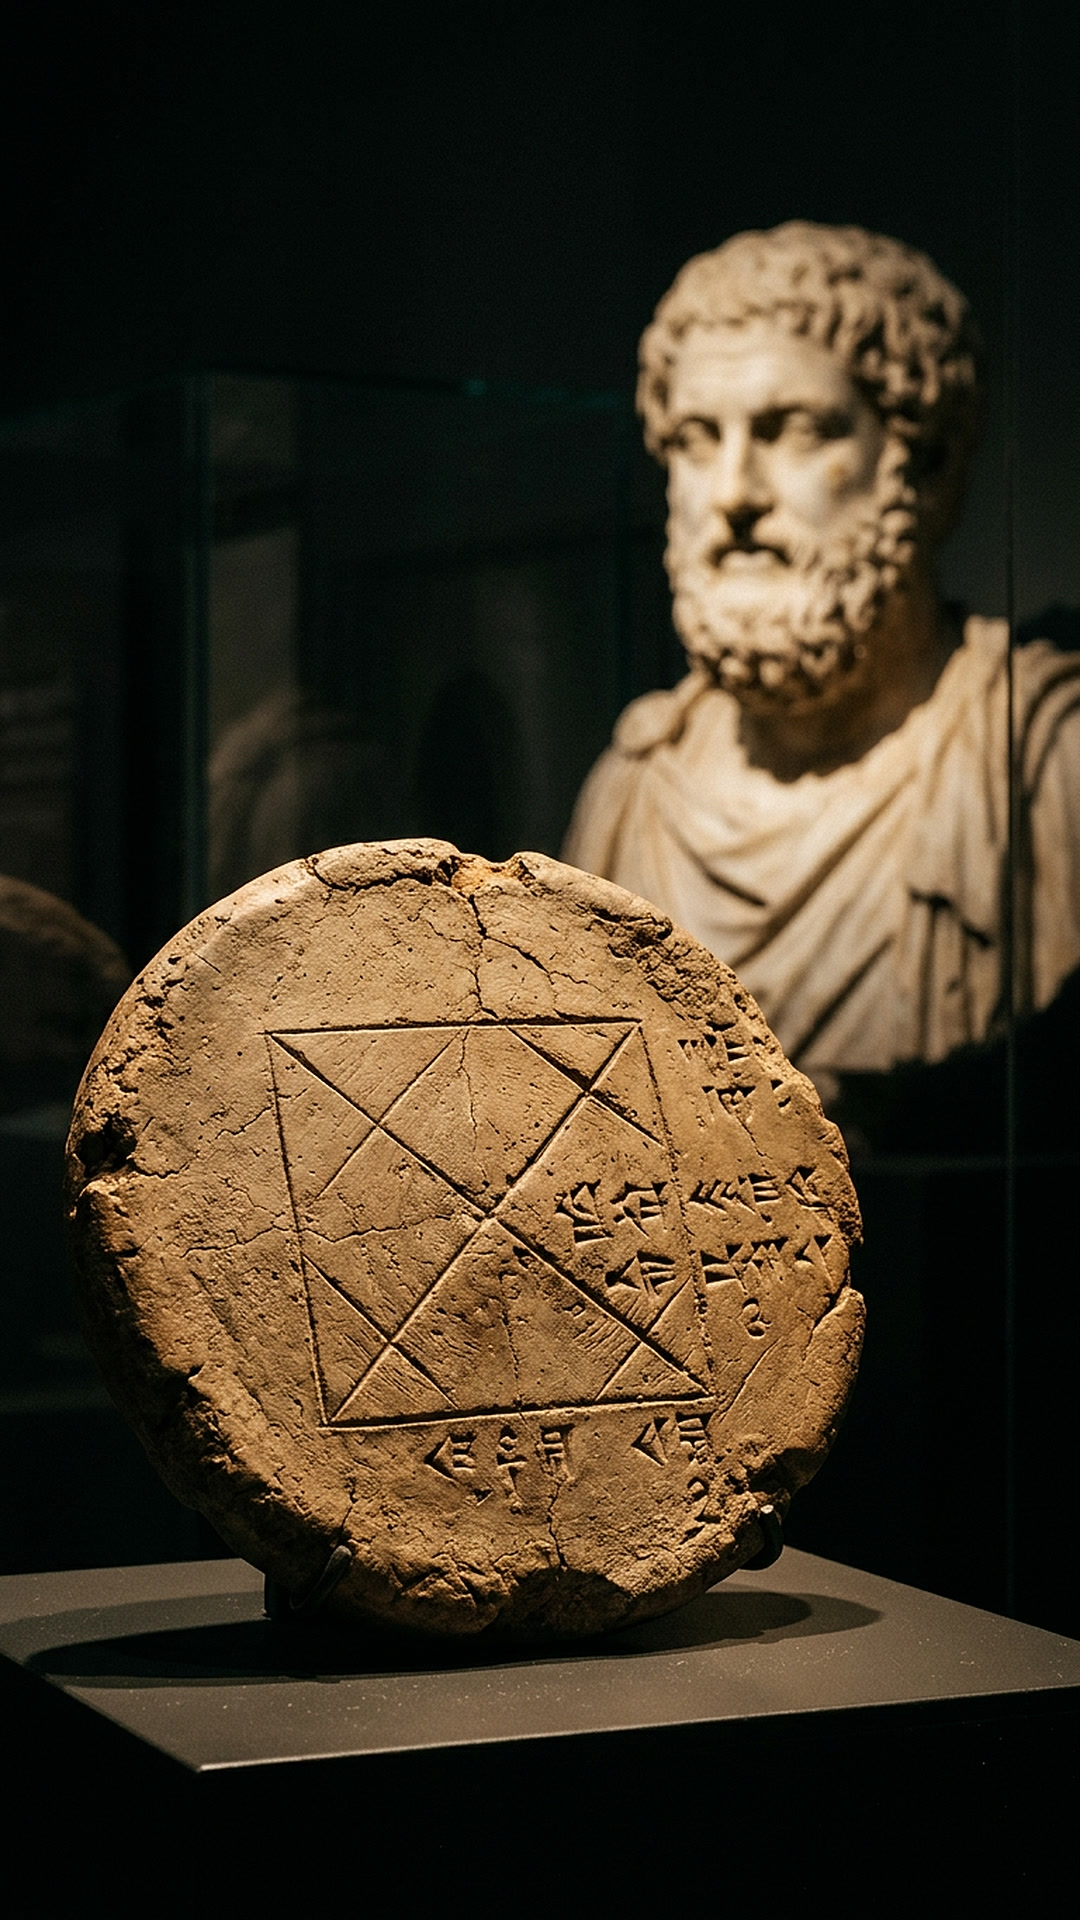
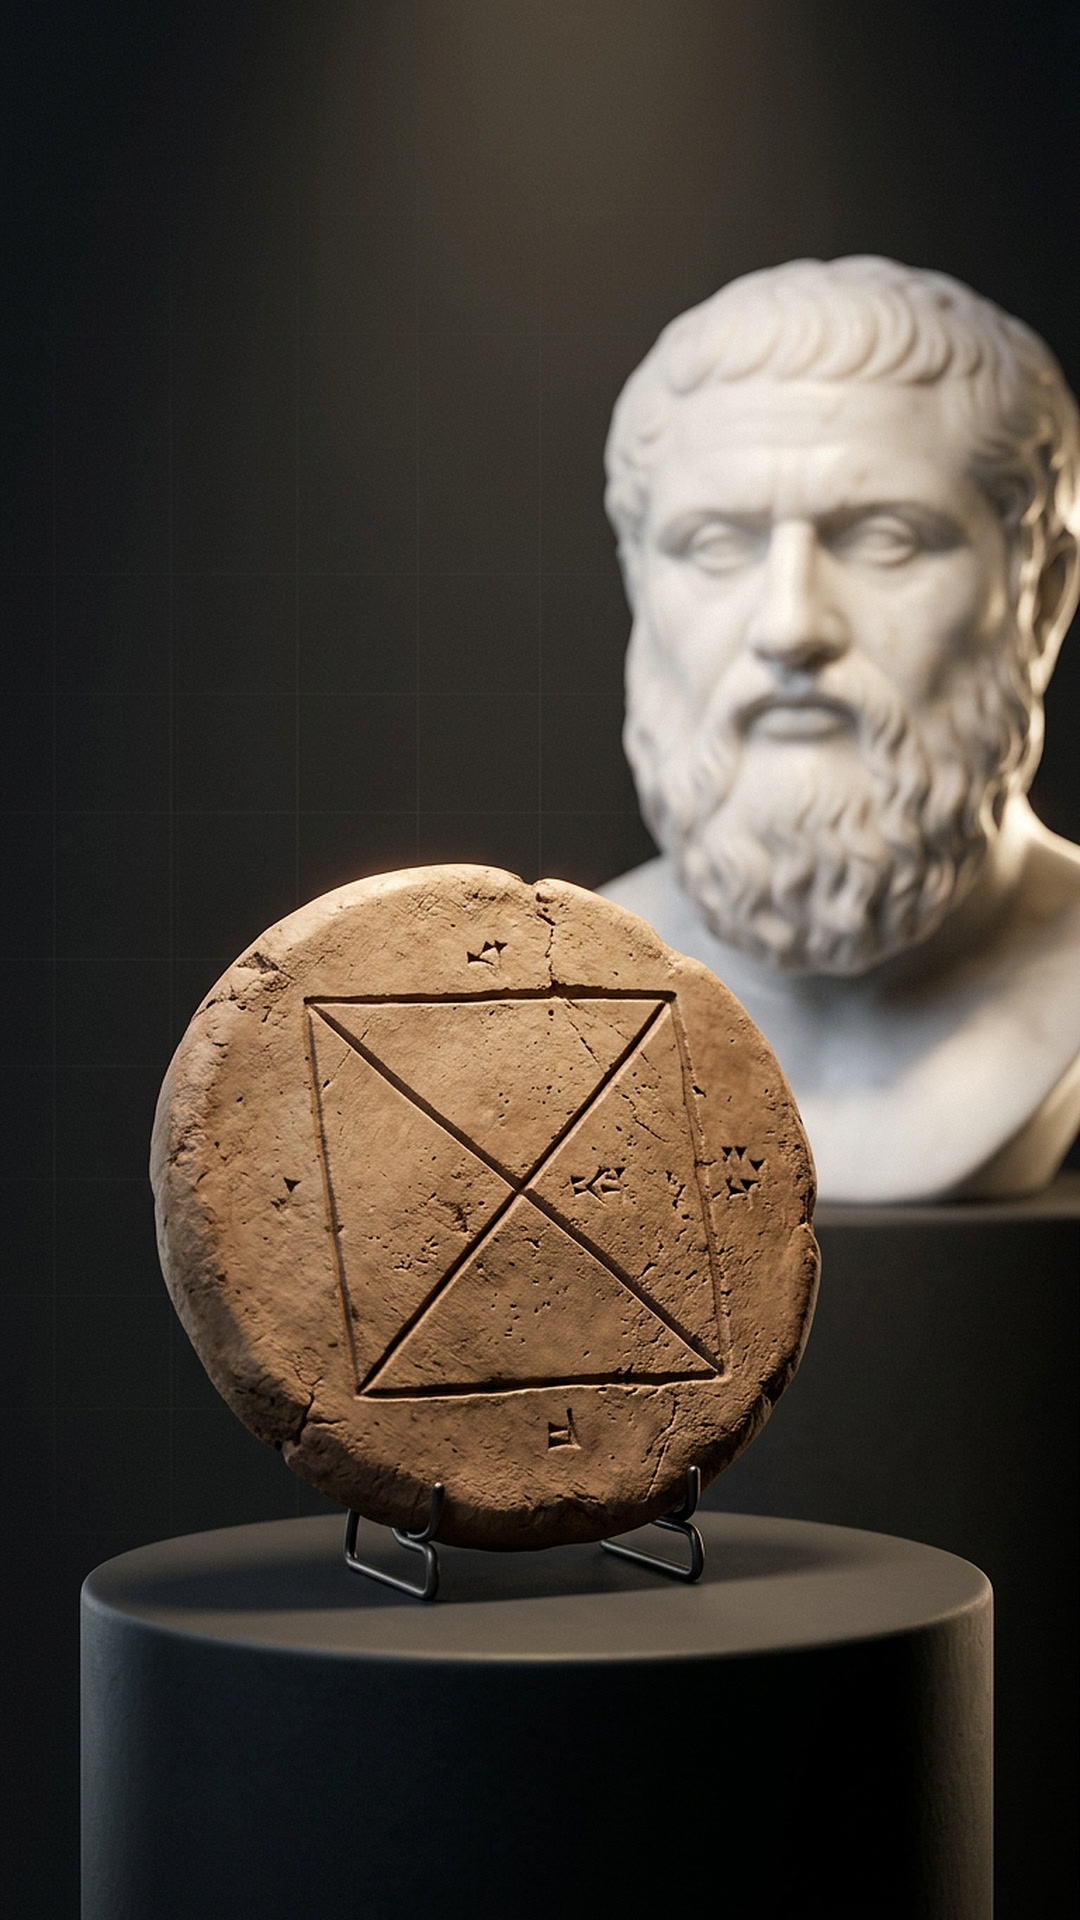
Couvertures en rendu 3D studio (5 vidéos)
Le client trouvait les photo-illustrations trop réelles : nouveaux
fonds en rendu 3D studio (fond sombre à grille, figurines en pâte),
mêmes titres et annotations. Règle mise à jour.

Claude-Session: https://claude.ai/code/session_01KZV2BWLCWnSE6qKatNZcwZ

diff --git a/videos/eolienne/cover/cover.html b/videos/eolienne/cover/cover.html
@@ -1,41 +1,17 @@
 <!doctype html>
-<!-- Couverture TikTok créée à part (1080×1920) : photo-illustration générée (Magnific) + titre-choc.
-     Rendu : node render-cover.mjs → ../cover.png et ../cover-grille.png (recadrage 3:4 de la grille du profil). -->
-<html lang="fr">
-<meta charset="utf-8" />
-<style>
-  @font-face { font-family: Anton; src: url(anton.woff2); }
-  @font-face { font-family: Mono; font-weight: 700; src: url(jetbrains-mono-700.woff2); }
-  @font-face { font-family: Inter; font-weight: 800; src: url(inter-800.woff2); }
-  * { margin: 0; box-sizing: border-box; }
-  body { width: 1080px; height: 1920px; overflow: hidden; background: #000 url(fond.jpg) center / cover; position: relative; font-family: Anton, sans-serif; }
-  .shade { position: absolute; inset: 0; background: linear-gradient(180deg, rgba(0, 0, 0, 0.75) 0%, rgba(0, 0, 0, 0.55) 26%, rgba(0, 0, 0, 0) 40%, rgba(0, 0, 0, 0) 72%, rgba(0, 0, 0, 0.55) 100%); }
-  .kick { position: absolute; left: 0; right: 0; top: 250px; text-align: center; }
-  .kick span { display: inline-block; font: 700 38px/1 Mono, monospace; letter-spacing: 0.14em; color: #0f1011; background: #ffd23f; padding: 14px 26px; border-radius: 999px; transform: rotate(-2deg); box-shadow: 0 8px 24px rgba(0, 0, 0, 0.35); }
-  h1 { position: absolute; left: 0; right: 0; top: 318px; text-align: center; color: #fff; text-transform: uppercase; line-height: 0.95; text-shadow: 0 8px 0 rgba(0, 0, 0, 0.45), 0 0 40px rgba(0, 0, 0, 0.5); }
-  h1 .a { display: block; font-size: 200px; letter-spacing: 0.01em; }
-  h1 .a em { font-style: normal; color: #ffd23f; }
-  h1 .b { display: block; font-size: 86px; letter-spacing: 0.01em; }
-  /* annotations on the photo */
-  .tag { position: absolute; font: 700 34px/1 Mono, monospace; letter-spacing: 0.1em; color: #fff; background: #e5483a; padding: 12px 18px; border-radius: 10px; box-shadow: 0 8px 24px rgba(0, 0, 0, 0.4); white-space: nowrap; }
-  .tag.blue { background: #3d7bff; }
-  svg { position: absolute; inset: 0; }
-</style>
-<div class="shade"></div>
+<html lang="fr"><meta charset="utf-8" /><link rel="stylesheet" href="../../_engine/covers/kit/cover.css" /><style>body { background-image: url(fond.jpg); }</style>
+<!-- Couverture créée à part, style 3D studio (image générée avec Magnific) : une pale à côté d'un terrain de basket. -->
+<div class="shade" style="background: linear-gradient(180deg, rgba(0,0,0,0.35) 0%, rgba(0,0,0,0) 25%, rgba(0,0,0,0) 60%, rgba(0,0,0,0.35) 100%)"></div>
 <svg width="1080" height="1920" viewBox="0 0 1080 1920">
-  <!-- the two tiny people -->
-  <circle cx="632" cy="922" r="46" fill="none" stroke="#ffd23f" stroke-width="7" />
-  <path d="M 700 880 Q 770 820 812 760" fill="none" stroke="#ffd23f" stroke-width="7" stroke-linecap="round" />
-  <!-- blade length bracket -->
-  <path d="M 318 738 L 960 1330" fill="none" stroke="#e5483a" stroke-width="8" stroke-dasharray="22 14" stroke-linecap="round" />
-  <circle cx="318" cy="738" r="11" fill="#e5483a" />
-  <circle cx="960" cy="1330" r="11" fill="#e5483a" />
-  <!-- court outline -->
-  <path d="M 70 1100 L 418 1056 L 618 1440 L 204 1512 Z" fill="none" stroke="#3d7bff" stroke-width="8" stroke-linejoin="round" />
+  <path d="M 999 392 L 257 1553" fill="none" stroke="#e5483a" stroke-width="8" stroke-dasharray="22 14" stroke-linecap="round" />
+  <circle cx="999" cy="392" r="12" fill="#e5483a" /><circle cx="257" cy="1553" r="12" fill="#e5483a" />
+  <path d="M 49 905 L 378 540 L 716 635 L 392 1053 Z" fill="none" stroke="#3d7bff" stroke-width="8" stroke-linejoin="round" />
+  <circle cx="783" cy="958" r="48" fill="none" stroke="#ffd23f" stroke-width="7" />
+  <path d="M 815 920 L 860 860" stroke="#ffd23f" stroke-width="7" stroke-linecap="round" />
 </svg>
-<div class="tag" style="left: 790px; top: 700px; background: #ffd23f; color: #0f1011">TOI</div>
-<div class="tag" style="left: 640px; top: 1130px">UNE PALE</div>
-<div class="tag blue" style="left: 230px; top: 1540px">28 M</div>
-<div class="kick"><span>COMMENT ÇA MARCHE ?</span></div>
-<h1><span class="a">1 <em>PALE</em></span><span class="b">PLUS LONGUE QU'UN</span><span class="b">TERRAIN DE BASKET</span></h1>
+<div class="kick" style="left: 290px; top: 250px">COMMENT ÇA MARCHE ?</div>
+<div class="tag blue" style="left: 60px; top: 560px">28 M</div>
+<div class="tag yel" style="left: 830px; top: 800px">TOI</div>
+<div class="tag" style="left: 80px; top: 1200px">UNE PALE<small>50 À 80 M</small></div>
+<h1 style="right: 50px; top: 1150px; text-align: right"><span style="font-size: 200px">1 <em>PALE</em></span><span style="font-size: 92px">PLUS LONGUE</span><span style="font-size: 92px">QU'UN TERRAIN</span><span style="font-size: 92px">DE BASKET</span></h1>
 </html>

diff --git a/videos/telephone/cover/cover.html b/videos/telephone/cover/cover.html
@@ -1,14 +1,15 @@
 <!doctype html>
 <html lang="fr"><meta charset="utf-8" /><link rel="stylesheet" href="../../_engine/covers/kit/cover.css" /><style>body { background-image: url(fond.jpg); }</style>
-<!-- Couverture créée à part : photo-illustration Magnific (pot de yaourt, fil tendu vers une antenne au loin). -->
-<div class="shade" style="background: linear-gradient(180deg, rgba(0,0,0,0.35) 0%, rgba(0,0,0,0) 22%, rgba(0,0,0,0) 48%, rgba(0,0,0,0.75) 64%, rgba(0,0,0,0.85) 100%)"></div>
+<!-- Couverture créée à part, style 3D studio (image générée avec Magnific) : un pot de yaourt, le fil jusqu'à l'antenne. -->
+<div class="shade" style="background: linear-gradient(90deg, rgba(0,0,0,0.4) 0%, rgba(0,0,0,0) 55%)"></div>
 <svg width="1080" height="1920" viewBox="0 0 1080 1920">
-  <path d="M 590 948 L 945 318" fill="none" stroke="#ffd23f" stroke-width="9" stroke-dasharray="24 14" stroke-linecap="round" />
-  <circle cx="948" cy="250" r="70" fill="none" stroke="#e5483a" stroke-width="8" />
-  <circle cx="345" cy="885" r="200" fill="none" stroke="#ffd23f" stroke-width="8" />
+  <path d="M 552 1000 L 783 640" fill="none" stroke="#ffd23f" stroke-width="9" stroke-dasharray="24 14" stroke-linecap="round" />
+  <circle cx="390" cy="1150" r="195" fill="none" stroke="#ffd23f" stroke-width="8" />
+  <ellipse cx="845" cy="540" rx="200" ry="170" fill="none" stroke="#e5483a" stroke-width="8" />
 </svg>
-<div class="tag" style="left: 560px; top: 360px">TON AMI<small>CAP-HAÏTIEN · 100 KM</small></div>
-<div class="tag yel" style="left: 470px; top: 640px">TOI</div>
-<div class="kick" style="left: 290px; top: 1110px">COMMENT ÇA MARCHE ?</div>
-<h1 style="left: 0; right: 0; top: 1190px; text-align: center"><span style="font-size: 132px"><em>2 POTS DE YAOURT</em></span><span style="font-size: 168px">= 1 TÉLÉPHONE ?</span></h1>
+<h1 style="left: 60px; top: 280px; font-size: 150px"><span><em>2 POTS</em></span><span><em>DE YAOURT</em></span></h1>
+<div class="tag" style="left: 620px; top: 730px">TON AMI<small>CAP-HAÏTIEN · 100 KM</small></div>
+<div class="tag yel" style="left: 600px; top: 1040px">TOI</div>
+<div class="kick" style="right: 50px; top: 1450px">COMMENT ÇA MARCHE ?</div>
+<h1 style="right: 50px; top: 1525px; text-align: right; font-size: 124px"><span>= 1 TÉLÉPHONE ?</span></h1>
 </html>

diff --git a/videos/inventeurs/cover/cover.html b/videos/inventeurs/cover/cover.html
@@ -1,18 +1,17 @@
 <!doctype html>
 <html lang="fr"><meta charset="utf-8" /><link rel="stylesheet" href="../../_engine/covers/kit/cover.css" /><style>body { background-image: url(fond.jpg); }</style>
-<!-- Couverture créée à part : nature morte générée (Magnific) : ampoule, feu tricolore, cartouche, pistolet à eau. -->
-<div class="shade" style="background: linear-gradient(180deg, rgba(0,0,0,0.55) 0%, rgba(0,0,0,0) 36%)"></div>
+<!-- Couverture créée à part, style 3D studio (image générée avec Magnific) : ampoule, feu tricolore, cartouche, pistolet à eau. -->
 <svg width="1080" height="1920" viewBox="0 0 1080 1920" fill="none" stroke-width="5" stroke-linecap="round">
-  <path d="M 150 1250 L 150 1135" stroke="#e5483a" />
-  <path d="M 380 1420 L 400 1145" stroke="#3d7bff" />
-  <path d="M 640 1250 L 636 1110" stroke="#ffd23f" />
-  <path d="M 860 1420 L 930 1205" stroke="#e5483a" />
+  <path d="M 169 1400 L 169 1300" stroke="#e5483a" />
+  <path d="M 380 1560 L 398 1310" stroke="#3d7bff" />
+  <path d="M 640 1400 L 640 1300" stroke="#ffd23f" />
+  <path d="M 860 1560 L 910 1300" stroke="#e5483a" />
 </svg>
 <div class="kick" style="left: 340px; top: 250px">ON T'A MENTI</div>
 <h1 style="left: 0; right: 0; top: 318px; text-align: center; font-size: 140px"><span>LES NOIRS</span><span>N'ONT RIEN</span><span><em>INVENTÉ ?</em></span></h1>
 <div class="stamp" style="left: 610px; top: 722px; font-size: 118px">FAUX</div>
-<div class="tag" style="left: 30px; top: 1250px">LEWIS LATIMER<small>AMPOULE · 1882</small></div>
-<div class="tag blue" style="left: 200px; top: 1420px">GARRETT MORGAN<small>FEU · 1923</small></div>
-<div class="tag yel" style="left: 480px; top: 1250px">JERRY LAWSON<small>CARTOUCHES DE JEU</small></div>
-<div class="tag" style="left: 660px; top: 1420px">LONNIE JOHNSON<small>SUPER SOAKER</small></div>
+<div class="tag" style="left: 30px; top: 1400px">LEWIS LATIMER<small>AMPOULE · 1882</small></div>
+<div class="tag blue" style="left: 200px; top: 1560px">GARRETT MORGAN<small>FEU · 1923</small></div>
+<div class="tag yel" style="left: 480px; top: 1400px">JERRY LAWSON<small>CARTOUCHES DE JEU</small></div>
+<div class="tag" style="left: 660px; top: 1560px">LONNIE JOHNSON<small>SUPER SOAKER</small></div>
 </html>

diff --git a/videos/maths-grecs/cover/cover.html b/videos/maths-grecs/cover/cover.html
@@ -1,14 +1,14 @@
 <!doctype html>
 <html lang="fr"><meta charset="utf-8" /><link rel="stylesheet" href="../../_engine/covers/kit/cover.css" /><style>body { background-image: url(fond.jpg); }</style>
-<!-- Couverture créée à part : photo-illustration Magnific (tablette babylonienne, buste grec flou). -->
-<div class="shade" style="background: linear-gradient(90deg, rgba(0,0,0,0.6) 0%, rgba(0,0,0,0) 60%), linear-gradient(180deg, rgba(0,0,0,0) 70%, rgba(0,0,0,0.6) 100%)"></div>
+<!-- Couverture créée à part, style 3D studio (image générée avec Magnific) : tablette de Babylone, buste grec. -->
+<div class="shade" style="background: linear-gradient(90deg, rgba(0,0,0,0.55) 0%, rgba(0,0,0,0) 55%)"></div>
 <svg width="1080" height="1920" viewBox="0 0 1080 1920">
-  <path d="M 450 1050 L 800 1420" fill="none" stroke="#ffd23f" stroke-width="7" stroke-dasharray="20 12" stroke-linecap="round" />
+  <path d="M 300 980 L 690 1430" fill="none" stroke="#ffd23f" stroke-width="7" stroke-dasharray="20 12" stroke-linecap="round" />
 </svg>
-<h1 style="left: 60px; top: 300px; font-size: 128px"><span>LES GRECS</span><span>ONT INVENTÉ</span><span><em>LES MATHS ?</em></span></h1>
-<div class="stamp" style="left: 650px; top: 700px">FAUX</div>
-<div class="tag yel" style="left: 60px; top: 760px">+ DE 1 000 ANS AVANT EUX</div>
-<div class="tag dark" style="left: 640px; top: 1150px">√2 ≈ 1,414213</div>
-<div class="tag" style="left: 60px; top: 1570px">BABYLONE<small>≈ 1800 AV. J.-C.</small></div>
-<div class="tag blue" style="left: 700px; top: 260px">LES GRECS<small>≈ 500 AV. J.-C.</small></div>
+<h1 style="left: 60px; top: 290px; font-size: 112px"><span>LES GRECS</span><span>ONT INVENTÉ</span><span><em>LES MATHS ?</em></span></h1>
+<div class="tag yel" style="left: 60px; top: 650px">+ DE 1 000 ANS AVANT EUX</div>
+<div class="stamp" style="left: 640px; top: 690px">FAUX</div>
+<div class="tag blue" style="left: 720px; top: 250px">LES GRECS<small>≈ 500 AV. J.-C.</small></div>
+<div class="tag dark" style="left: 650px; top: 1300px">√2 ≈ 1,414213</div>
+<div class="tag" style="left: 60px; top: 1590px">BABYLONE<small>≈ 1800 AV. J.-C.</small></div>
 </html>

diff --git a/videos/femmes-guerre/cover/cover.html b/videos/femmes-guerre/cover/cover.html
@@ -1,10 +1,10 @@
 <!doctype html>
 <html lang="fr"><meta charset="utf-8" /><link rel="stylesheet" href="../../_engine/covers/kit/cover.css" /><style>body { background-image: url(fond.jpg); }</style>
-<!-- Couverture créée à part : peinture historique générée (Magnific) des Agojie, soldates du Dahomey. -->
-<div class="shade" style="background: linear-gradient(180deg, rgba(0,0,0,0.82) 0%, rgba(0,0,0,0.7) 30%, rgba(0,0,0,0) 46%, rgba(0,0,0,0) 74%, rgba(0,0,0,0.6) 100%)"></div>
+<!-- Couverture créée à part, style 3D studio (image générée avec Magnific) : figurines des Agojie, soldates du Dahomey. -->
+<div class="shade" style="background: linear-gradient(180deg, rgba(0,0,0,0.85) 0%, rgba(0,0,0,0.75) 32%, rgba(0,0,0,0) 48%)"></div>
 <div class="kick" style="left: 330px; top: 250px">HISTOIRE CACHÉE</div>
 <h1 style="left: 0; right: 0; top: 320px; text-align: center; font-size: 128px"><span>LES FEMMES</span><span>N'ONT JAMAIS</span><span><em>FAIT LA GUERRE ?</em></span></h1>
 <div class="stamp" style="left: 640px; top: 735px">FAUX</div>
-<div class="tag" style="left: 50px; top: 1560px">LES AGOJIE<small>BÉNIN · XIXᵉ SIÈCLE</small></div>
-<div class="tag yel" style="left: 600px; top: 1580px">DES MILLIERS</div>
+<div class="tag" style="left: 60px; top: 1460px">LES AGOJIE<small>BÉNIN · XIXᵉ SIÈCLE</small></div>
+<div class="tag yel" style="left: 620px; top: 1480px">DES MILLIERS</div>
 </html>

diff --git a/CLAUDE.md b/CLAUDE.md
@@ -76,7 +76,7 @@ Les 21 skills publiés de [heygen-com/hyperframes](https://github.com/heygen-com
 - **Noms des styles vidéo (choisis avec le client)** : quand il dit **« style RÉEL »**, c'est le style « histoire express » v3 ci-dessous (photos réelles, détourages, typo karaoké). Quand il dit **« style ANIMÉ »**, c'est le dessin vectoriel animé décrit dans `videos/_engine/style-anime/README.md` (**gabarit de script obligatoire** : **accroche en énigme** depuis `videos/tour-eiffel/` v2, choix du client : un fait choc daté, « Pourquoi… ? », une 2ᵉ question à laquelle la phrase miroir répondra, puis « Remontons en… » ; plus de « c'est faux, je vais te le prouver » sauf demande ; ensuite questions d'ouverture, accusation retournée, preuves en rafale, phrase miroir finale ; modèles `videos/test-cartoon/`, `videos/cowboys/` ; tout en SVG, fonds sombres et rayons dorés, bustes, carte qui s'allume, sous-titres Bebas Neue avec le mot prononcé dans une case rouge, barre de progression dorée ; la règle « images réelles uniquement » ne s'applique pas à ce style ; voix **Gabriel Dubois** (Magnific / ElevenLabs, `voiceId` 480), bruitage sur chaque dessin avec la banque `videos/_engine/style-anime/sfx/`).
 - **« style 3D »** : vraie 3D (Three.js piloté par HyperFrames), un seul plan où la caméra tourne, plonge et ressort, l'objet qui **se construit pièce par pièce** ; récit « tu le construis toi-même » (problème → « Alors… » → « Ça, c'est un… » avec le titre à l'écran, fin en boucle « Regarde-toi : tu viens de construire… ») ; fond bleu pétrole, étiquettes mono, mot-clé des sous-titres en cyan ; voix **Adrien Moreau** (Magnific / ElevenLabs, `voiceId` 230), débit ≈ 210 mots/min ; guide `videos/_engine/style-3d/README.md`.
 - **« style STUDIO »** (choix du client : variante C des références) : rendus 3D « produit » Three.js, **un plan par idée avec coupes franches** (≈ 1 plan / 3-4 s), fond noir `#0f1011` à grille fine, quelques plans studio clairs ; **sous-titres en haut** (≈ 18 %) en Inter : le mot arrive flou puis net, mot en cours gras blanc, mots déjà dits fins et gris, mot-clé dans un **cadre de sélection bleu à deux poignées** ; récit : fait surprenant → « Alors, comment/pourquoi… ? » → « Imagine… » → mécanisme pas à pas → retour à la question → « Abonne-toi et envoie ça à quelqu'un qui… » avec une feuille de partage de téléphone ; voix **Adrien Moreau** (`voiceId` 230, ton de conversation, ≈ 200 mots/min) ; **pas de musique** mais un fond d'ambiance très bas (jamais de silence numérique) et des bruitages discrets ; guide `videos/_engine/style-3d-studio/README.md`, modèle `videos/eolienne/`.
-- **Couverture TikTok avec chaque vidéo** (demande du client) : une image **créée à part** (pas une image de la vidéo), très accrocheuse : photo-illustration ou visuel fort, titre-choc de 3 à 7 mots, annotations (cercles, flèches, étiquettes d'échelle), texte dans le recadrage 3:4 de la grille du profil ; livrée avec la vidéo (`videos/<projet>/cover.png` + `cover-grille.png`, source dans `videos/<projet>/cover/`). Voir `videos/_engine/covers/README.md`.
+- **Couverture TikTok avec chaque vidéo** (demande du client) : une image **créée à part** (pas une image de la vidéo), très accrocheuse, en **rendu 3D studio** (pas photo-réaliste), titre-choc de 3 à 7 mots, annotations (cercles, flèches, étiquettes d'échelle), texte dans le recadrage 3:4 de la grille du profil ; livrée avec la vidéo (`videos/<projet>/cover.png` + `cover-grille.png`, source dans `videos/<projet>/cover/`). Voir `videos/_engine/covers/README.md`.
 - **Vidéos de faits / histoire (Haïti, drapeaux, anecdotes) : style v3 validé par le client, à reprendre exactement** — voir `videos/_engine/style-histoire/README.md` (modèle : `videos/reine-pise/` ; base v2 : `videos/santa-maria-2014/`, `videos/or-haiti-1914-v2/`). Accroche dans un viseur de caméra avec compteur, au moins une image par scène (détourages sur disque orange `#F05A28`, mots fantômes, micro-typo). Sans logo ni nom KONVWA, images réelles uniquement, voix Charon accélérée ×1,1, transitions par inondation de couleur / iris / page qui pousse, rendu 120 i/s fusionné en 60 i/s avec `finish.py` (−14 LUFS), question finale + bulle « Répondez ici ».
 - Les vidéos KONVWA suivent la marque : français, orange `#F05A28` sur `#0A1628`, Poppins, prix en HTG.
 - Les projets vidéo vivent hors de `src/` (ex. `videos/<nom>/`) ; les rendus `.mp4` ne sont pas commités.

diff --git a/videos/eolienne/README.md b/videos/eolienne/README.md
@@ -55,9 +55,9 @@ C'est la première vidéo en **style STUDIO**, le nom choisi par le client pour 
 
 ## Couverture (faite à part)
 
-`cover.png` (1080×1920) et `cover-grille.png` (aperçu 3:4 du profil). La source est dans `cover/` : `cover.html`, `fond.jpg` et `render-cover.mjs`.
+`cover.png` (1080×1920) et `cover-grille.png` (aperçu 3:4 du profil). La source est dans `cover/` : `cover.html` et `fond.jpg`. Rendu : `node ../_engine/covers/render_cover.mjs cover`.
 
-- **Fond** : une photo-illustration générée avec Magnific (vue de drone au coucher du soleil, une pale géante posée à côté d'un terrain de basket, deux personnes minuscules). C'est une illustration, pas une photo réelle.
+- **Fond** : une image générée avec Magnific en **rendu 3D studio**, à la demande du client qui trouvait la photo-illustration « trop réelle ». On y voit une pale géante à côté d'un terrain de basket miniature et deux figurines.
 - **Titre** : « 1 PALE » en très gros, puis « PLUS LONGUE QU'UN TERRAIN DE BASKET », avec une pastille « COMMENT ÇA MARCHE ? ».
 - **Annotations** : un cercle « TOI » autour des personnes, des pointillés rouges sur la longueur de la pale, et le contour bleu du terrain (« 28 M »).
 

diff --git a/videos/_engine/covers/README.md b/videos/_engine/covers/README.md
@@ -1,7 +1,10 @@
 # Couvertures TikTok
 
 **Règle du client (depuis l'éolienne)** : chaque nouvelle vidéo est livrée avec **une couverture créée à part**, très accrocheuse, et non une image tirée du rendu.
-- Le visuel est fort : une photo-illustration générée (Magnific `images_generate`, 9:16), ou un rendu 3D dédié.
+- Le visuel est fort, en **rendu 3D studio** (choix du client, les photo-illustrations étaient « trop réelles »).
+  - Il est généré avec Magnific `images_generate` en 9:16.
+  - Prompt type : « Clean 3D studio render, Blender product-render style: … dark charcoal studio floor with a subtle fine grid, soft studio lighting, minimal, no text ».
+  - Les personnages sont des figurines en pâte mate.
 - Le titre-choc fait 3 à 7 mots (Anton), avec une petite pastille (« COMMENT ÇA MARCHE ? »).
 - Des annotations donnent l'échelle ou désignent un détail : cercle « TOI », pointillés de longueur, contour, étiquettes.
 - Le texte reste dans le recadrage 3:4 (y 240 → 1680).
